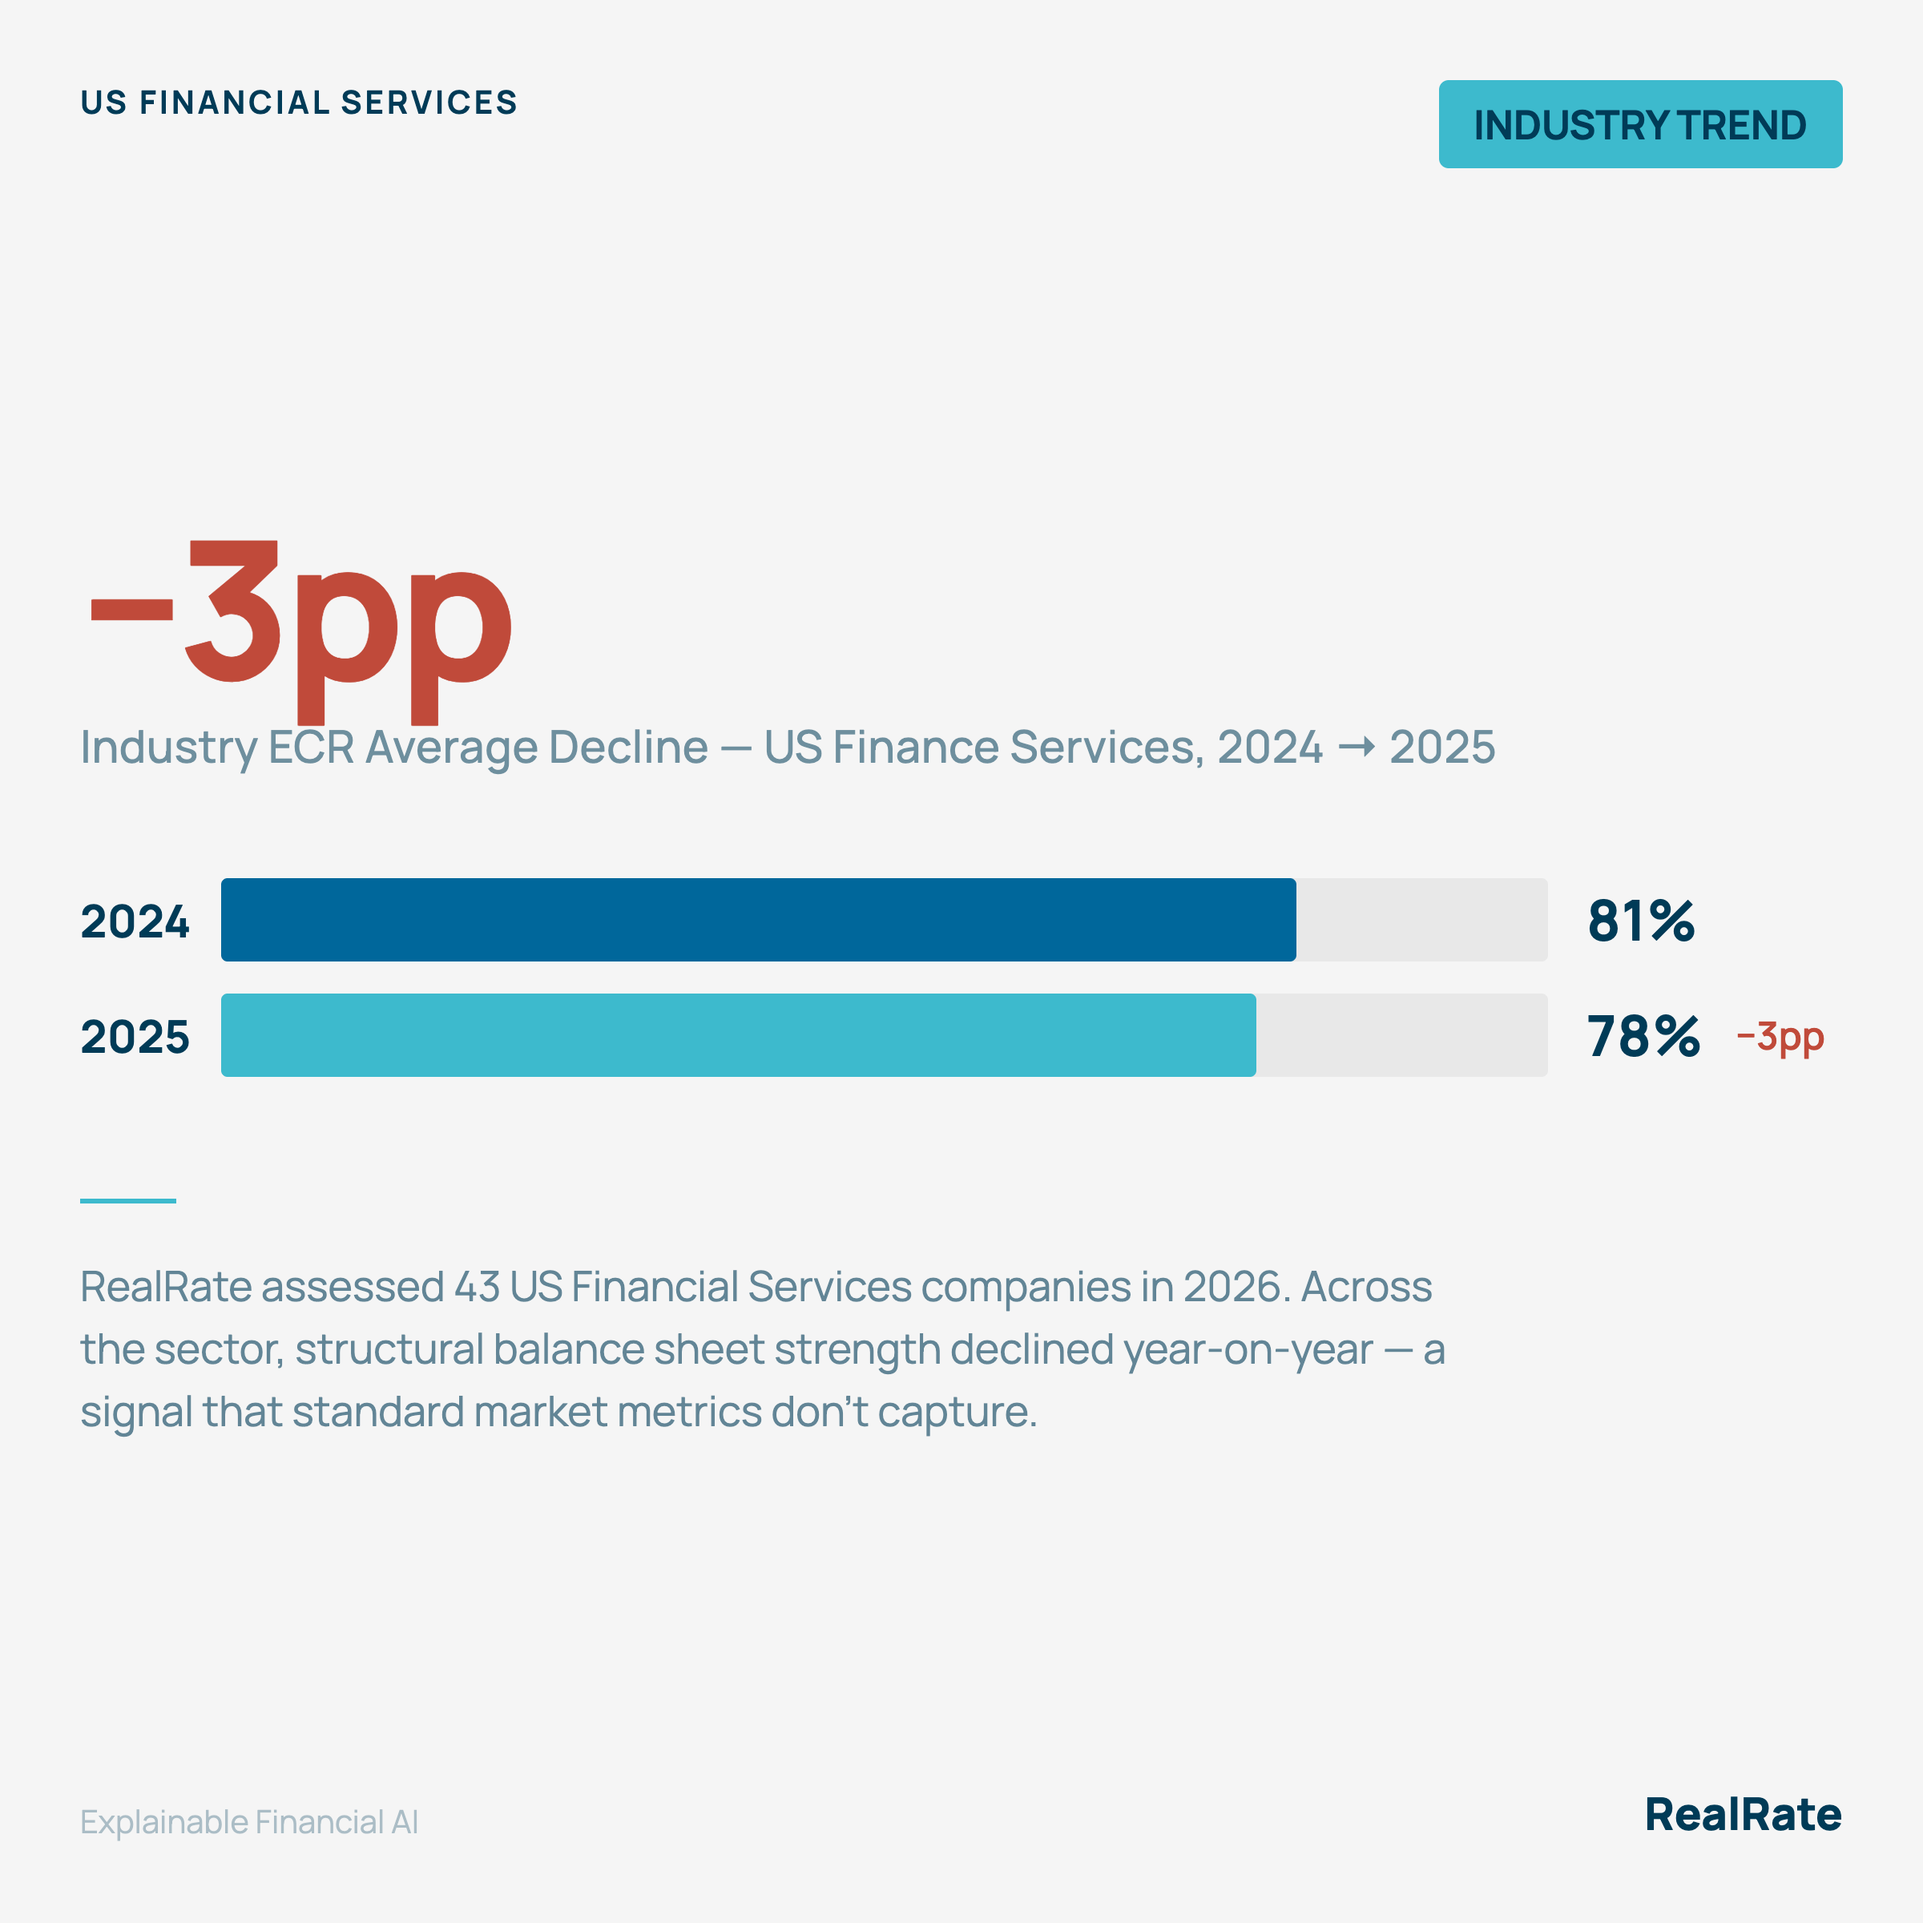
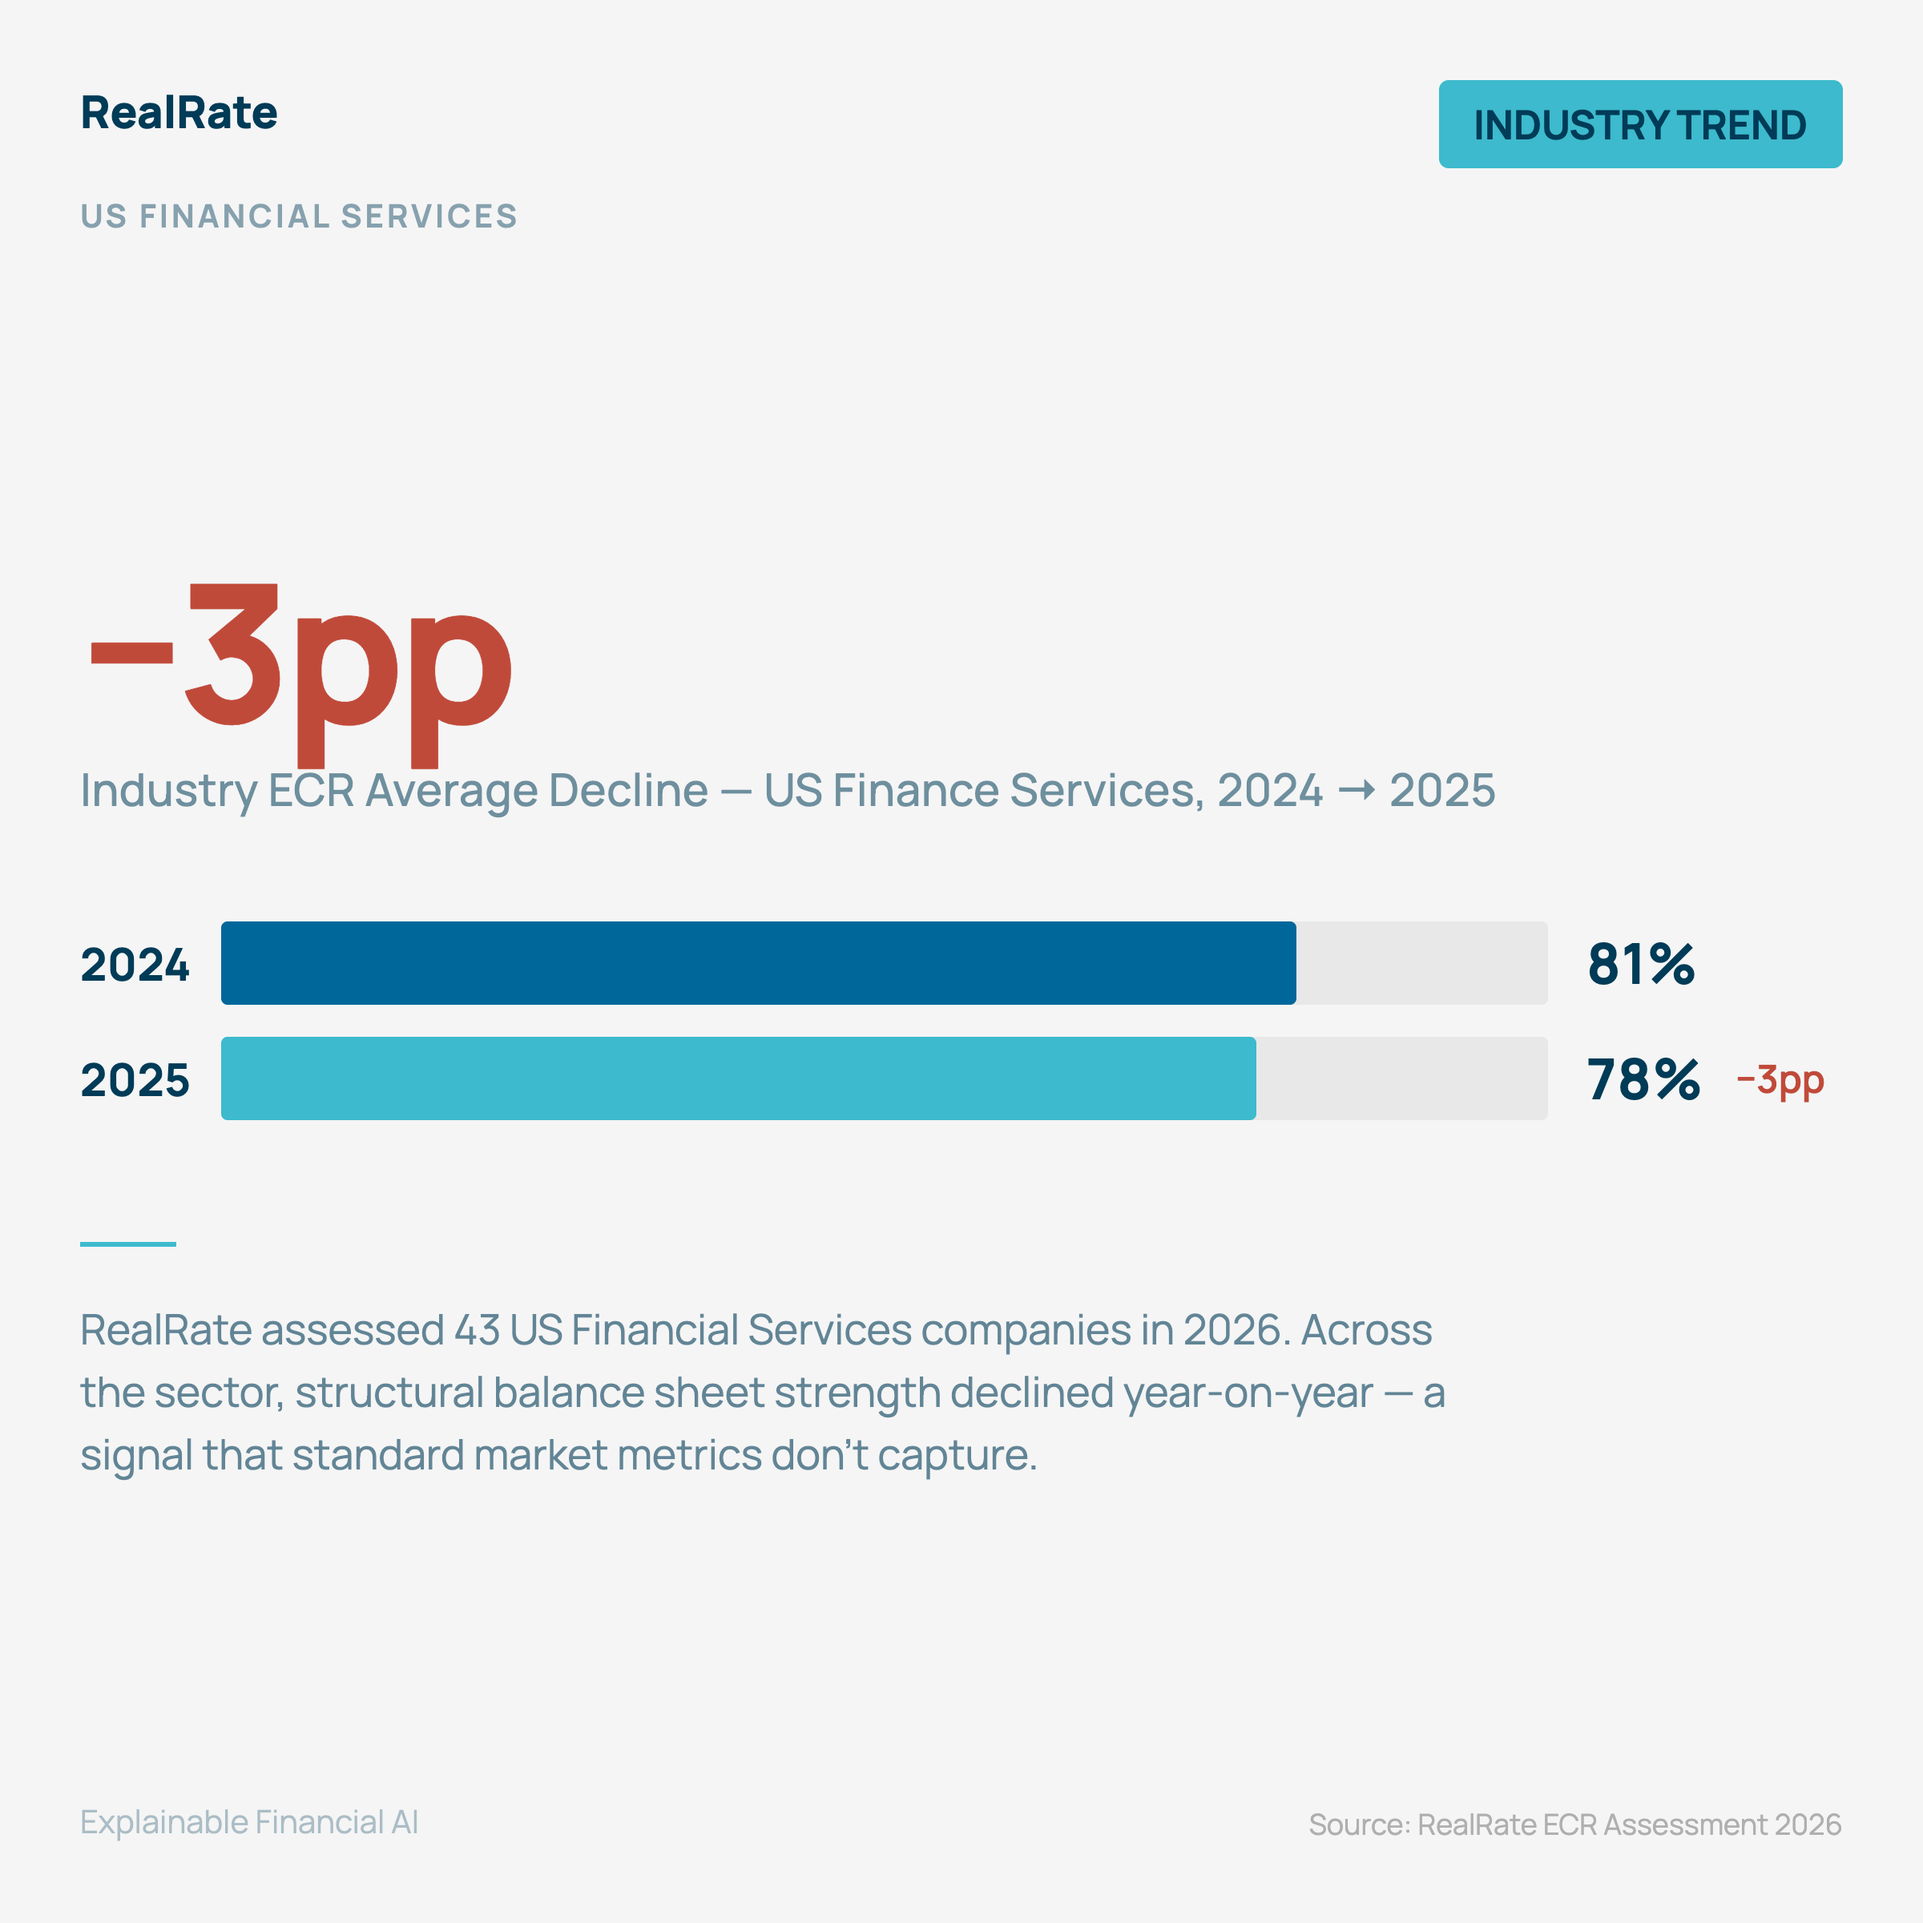
Update Insight 3 layout to match updated design-system.md
Logo moved to top-left, industry tag repositioned below logo, source line added bottom-right — all per the updated data viz spec in design-system.md.

diff --git a/posts/insight3_industry-trend_us-finance-services.html b/posts/insight3_industry-trend_us-finance-services.html
@@ -24,20 +24,18 @@
       position: relative;
     }
 
-    /* Header */
+    /* Header — logo top-left, badge top-right (data viz spec) */
     .header {
       display: flex;
       justify-content: space-between;
       align-items: flex-start;
       flex-shrink: 0;
+      margin-bottom: 6px;
     }
 
-    .industry-tag {
-      font-size: 20px;
-      font-weight: 700;
-      letter-spacing: 2px;
-      text-transform: uppercase;
-      color: #003b57;
+    .logo-box {
+      display: inline-flex;
+      align-items: center;
     }
 
     .post-badge {
@@ -48,6 +46,18 @@
       border-radius: 6px;
       padding: 10px 22px;
       align-self: flex-start;
+    }
+
+    /* Industry tag sits below logo */
+    .industry-tag {
+      font-size: 20px;
+      font-weight: 700;
+      letter-spacing: 2px;
+      text-transform: uppercase;
+      color: #003b57;
+      opacity: 0.45;
+      margin-bottom: 0;
+      flex-shrink: 0;
     }
 
     /* Main content */
@@ -101,7 +111,6 @@
       height: 52px;
       background: #e8e8e8;
       border-radius: 4px;
-      position: relative;
       margin: 0 24px 0 16px;
       overflow: hidden;
     }
@@ -154,7 +163,7 @@
       max-width: 880px;
     }
 
-    /* Bottom bar */
+    /* Bottom — tagline left, source right */
     .bottom {
       flex-shrink: 0;
       display: flex;
@@ -169,17 +178,29 @@
       opacity: 0.30;
     }
 
-    .logo-box {
-      display: inline-flex;
+    .source-line {
+      font-size: 18px;
+      font-weight: 400;
+      color: #AFAFAF;
+      text-align: right;
     }
   </style>
 </head>
 <body>
   <div class="container">
 
+    <!-- Logo top-left, badge top-right — per data viz spec -->
     <div class="header">
-      <span class="industry-tag">US Financial Services</span>
+      <div class="logo-box">
+        <img src="../context/RealRate_logo_horizontal.svg" height="44" alt="RealRate"
+          onerror="this.style.display='none'; this.parentNode.innerHTML='<span style=\'font-size:28px;font-weight:800;color:#003b57;\'>RealRate</span>'" />
+      </div>
       <span class="post-badge">INDUSTRY TREND</span>
+    </div>
+
+    <!-- Industry tag below logo -->
+    <div style="margin-bottom: 0; flex-shrink: 0; padding-top: 10px;">
+      <span class="industry-tag">US Financial Services</span>
     </div>
 
     <div class="content">
@@ -217,9 +238,7 @@
 
     <div class="bottom">
       <div class="tagline">Explainable Financial AI</div>
-      <div class="logo-box">
-        <img src="../context/RealRate_logo_horizontal.svg" height="44" alt="RealRate" onerror="this.style.display='none'; this.parentNode.innerHTML='<span style=\'font-size:28px;font-weight:800;color:#003b57;\'>RealRate</span>'" />
-      </div>
+      <div class="source-line">Source: RealRate ECR Assessment 2026</div>
     </div>
 
   </div>
